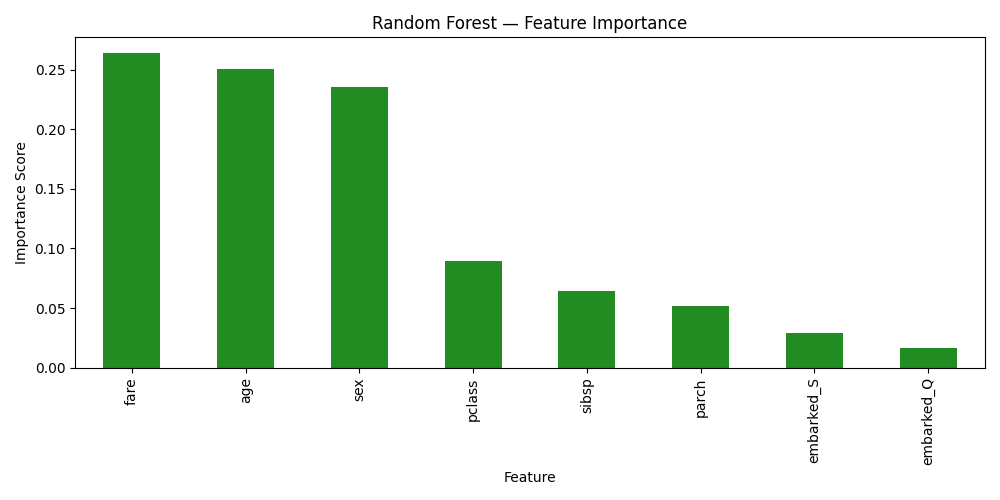
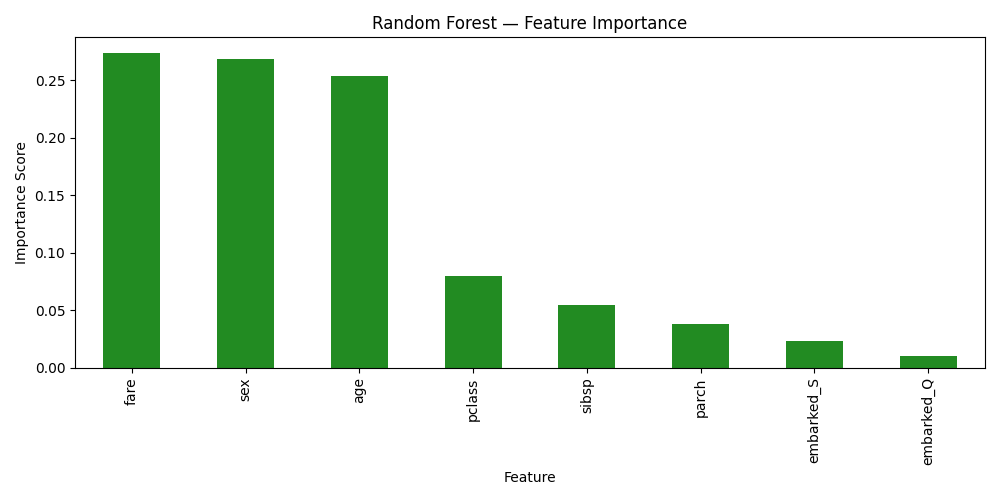
Day 14 EDA on titanic

diff --git a/day14.py b/day14.py
@@ -1,0 +1,147 @@
+# ML Task — Full EDA on Titanic
+# Task A — Basic Info
+
+import seaborn as sns
+import pandas as pd
+import matplotlib.pyplot as plt
+
+data = sns.load_dataset("titanic")
+
+print("shape : ", data.shape)
+print("info : ")
+print(data.info())
+print("Describe : ")
+print(data.describe())
+print("Missing Value")
+print(data.isnull().sum())
+
+# Task B — Missing Values Heatmap
+plt.figure(figsize=(10, 4))
+sns.heatmap(
+    data.isnull(),
+    cbar=False,
+    cmap="viridis",
+    yticklabels=False
+)
+plt.title("Missing Values Map (Yellow = Missing)")
+plt.tight_layout()
+plt.savefig("images\day14_missing.png")
+plt.show()
+
+# Task C — Distribution of Numerical Features
+fig, axes = plt.subplots(2, 3, figsize=(14, 8))
+
+data["age"].hist(ax=axes[0, 0], bins=20, color="steelblue", edgecolor="black")
+axes[0,0].set_title("Age Distribution")
+
+data["fare"].hist(ax=axes[0, 1], bins=30, color="coral", edgecolor="black")
+axes[0, 1].set_title("Fare Distribution")
+
+data["pclass"].value_counts().sort_index().plot(
+    kind="bar", ax=axes[0, 2], color="orange"
+)
+axes[0,2].set_title("Passenger Class Count")
+
+data["sibsp"].value_counts().sort_index().plot(
+    kind="bar", ax=axes[1, 0], color="green"
+)
+axes[1,0].set_title("Siblings/Spouses Count")
+
+data["survived"].value_counts().sort_index().plot(
+    kind="bar", ax=axes[1, 1], color=["red", "green"]
+)
+axes[1,1].set_title("Survived Count")
+
+data.boxplot(column="fare", by="pclass", ax=axes[1, 2])
+axes[1,2].set_title("Fare by Passenger Class")
+
+plt.tight_layout()
+plt.savefig("images\day14_distributions.png")
+plt.show()
+
+# Task D — Correlation Heatmap
+data_encoded = data.copy()
+
+data_encoded["sex"] = data_encoded["sex"].map({"male" : 0, "female" : 1})
+
+num_column = ["survived", "pclass", "age",
+              "sex", "sibsp", "parch", "fare"
+              ]
+corr = data_encoded[num_column].corr()
+
+plt.figure(figsize=(8, 6))
+sns.heatmap(
+    corr,
+    annot=True,
+    cmap="coolwarm",
+    center=0,
+    fmt=".2f",
+    square=True
+)
+
+plt.tight_layout()
+plt.savefig("images\day14_correlation.png")
+plt.show()
+
+# Task E — Survival Analysis
+fig, axes = plt.subplots(1, 3, figsize=(14, 4))
+
+# Survival by sex
+data.groupby("sex")["survived"].mean().plot(
+    kind="bar", ax=axes[0], color=["coral","steelblue"]
+)
+
+axes[0].set_title("Survival Rate by Sex")
+axes[0].set_ylabel("Survival Rate")
+
+# Survival by pclass
+data.groupby("pclass")["survived"].mean().plot(
+    kind="bar", ax=axes[1], color="purple"
+)
+axes[1].set_title("Survival Rate by Class")
+
+# Age distribution by survival
+data[data["survived"]==1]["age"].hist(
+    ax=axes[2], alpha=0.6, label="Survived", 
+    color="green", bins=20
+)
+data[data["survived"]==0]["age"].hist(
+    ax=axes[2], alpha=0.6, label="Not Survived", 
+    color="red", bins=20
+)
+axes[2].legend()
+axes[2].set_title("Age Distribution by Survival")
+
+plt.tight_layout()
+plt.savefig("images\day14_survival_analysis.png")
+plt.show()
+
+# Skewness check
+print("Fare skewness:", data["fare"].skew())
+print("Age skewness:",  data["age"].skew())
+
+# Which two features are most correlated with each other?
+'''
+    sex and survived are most correlated with each other
+'''
+
+# Which feature has the most outliers based on boxplot?
+'''
+    fare
+'''
+# Which feature shows the clearest separation between survived=0 and survived=1 in the pairplot?
+'''
+    sex
+'''
+# What is the skewness of the fare column? (use df["fare"].skew())
+'''
+    4.787
+'''
+# What does a correlation of -1 mean in plain English?
+'''
+    correlation -1 means one is up and another goes down
+    like in survived we can say correlation between
+    age and survived
+    with example there is x and y
+    when x goes up y downs
+'''

diff --git a/day13.py b/day13.py
@@ -1,5 +1,11 @@
 # Random Forest + Model Comparison
 # Task A — Train Random Forest
+'''
+    fit()     → ALWAYS uses X_train, y_train
+    predict() → ALWAYS uses X_test
+    score()   → ALWAYS uses X_test, y_test
+'''
+
 import seaborn as sns
 import pandas as pd
 from sklearn.model_selection import train_test_split
@@ -40,7 +46,7 @@ rf_model = RandomForestClassifier(
     random_state=42
 )
 
-rf_model.fit(X_test, Y_test)
+rf_model.fit(X_train, Y_train)
 rf_pred = rf_model.predict(X_test)
 
 print("Accuracy of random forest : ", accuracy_score(Y_test, rf_pred))
@@ -119,7 +125,7 @@ plt.show()
 '''
 # How many trees did you use and what accuracy did you get?
 '''
-    use 100 tree got accuracy 100
+    use 100 tree got accuracy 0.80 that is 80%
 '''
 # Which feature was most important according to Random Forest? Same as Decision Tree?
 '''
@@ -128,6 +134,6 @@ plt.show()
 # What is OOB score and why is it useful?
 '''
     OOB score is 0.77 that is likely 77%
-    it is random forest itself validation for ramaining data 
+    it is random forest itself validation for remaining data 
     which are not use in train the model
 '''
